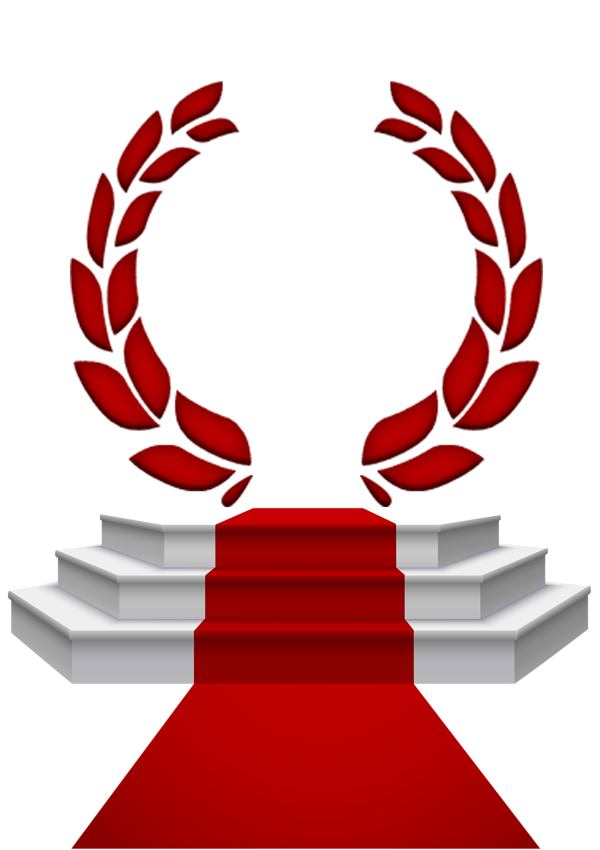
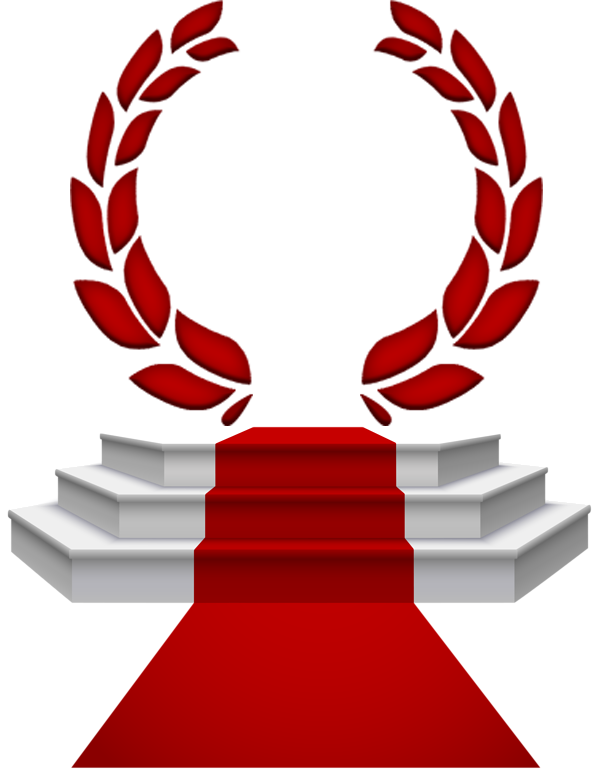
Correction bug export

diff --git a/assets/css/style.css b/assets/css/style.css
@@ -3,12 +3,33 @@ body{
     font-size:2.8em;
     background-image:url("../img/background.jpg");
     color: white;
+    padding-top: 70px;
 }
+
+
+.header > ul  {
+    font-size: 30px;
+    position: absolute;
+    background-color: #2b2b2b;
+}
+
+.button {
+    background-color: #af3b3c;
+    border: 3px solid #fff;
+    color: white;
+    padding: 15px 32px;
+    text-align: center;
+    text-decoration: none;
+    display: inline-block;
+    font-size: 16px;
+    margin: 4px 2px;
+    cursor: pointer;
+}
+
 
 #gagnant{
     position: relative;
     min-height: 130%;
-    margin-top: 4%;
 }
 
 #gagnant img{
@@ -25,7 +46,7 @@ body{
 #img_gagnant{
     z-index: :2;
     display: block;
-    margin-top: 9%;
+    margin-top: 4%;
     margin-left: 39%;  
     overflow:hidden;
     -webkit-border-radius:50%;

diff --git a/application/views/Admin/historiqueConcours.php b/application/views/Admin/historiqueConcours.php
@@ -1,4 +1,4 @@
-<?php echo form_open('admin/export_concours_CSV'); ?> 
+<?php echo form_open('Admin/export_concours_CSV'); ?> 
 
 
 <input type="submit" value="exporter" name="export" />
